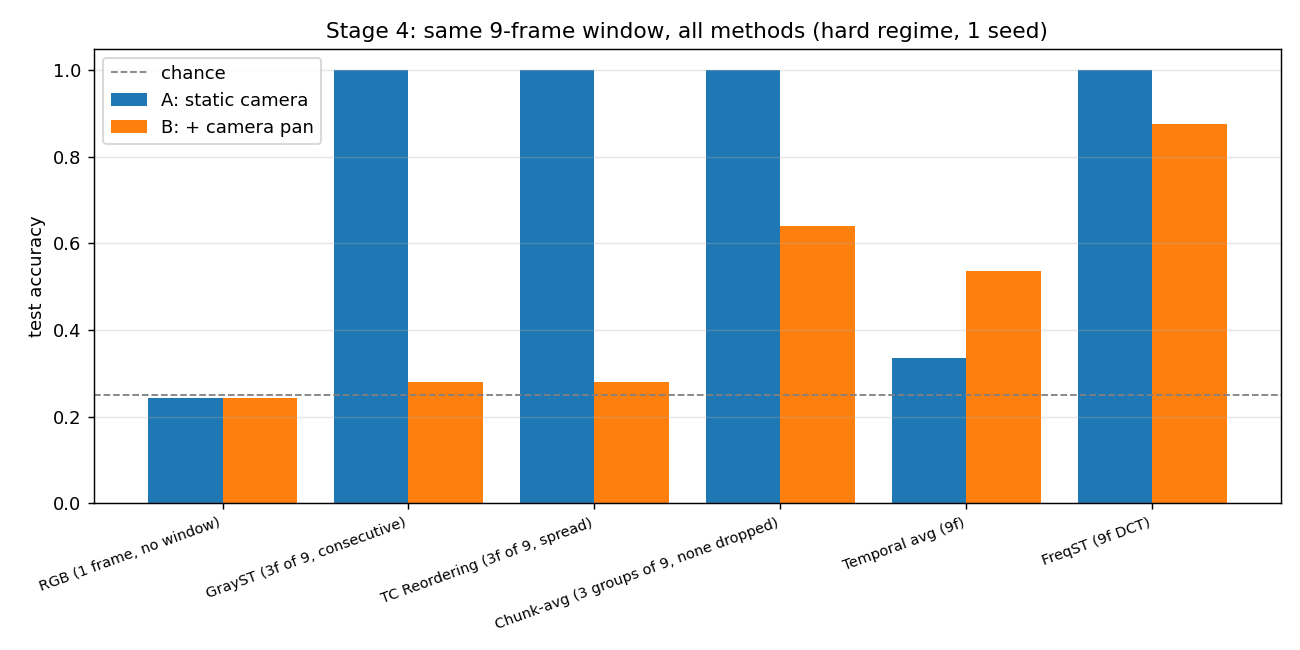
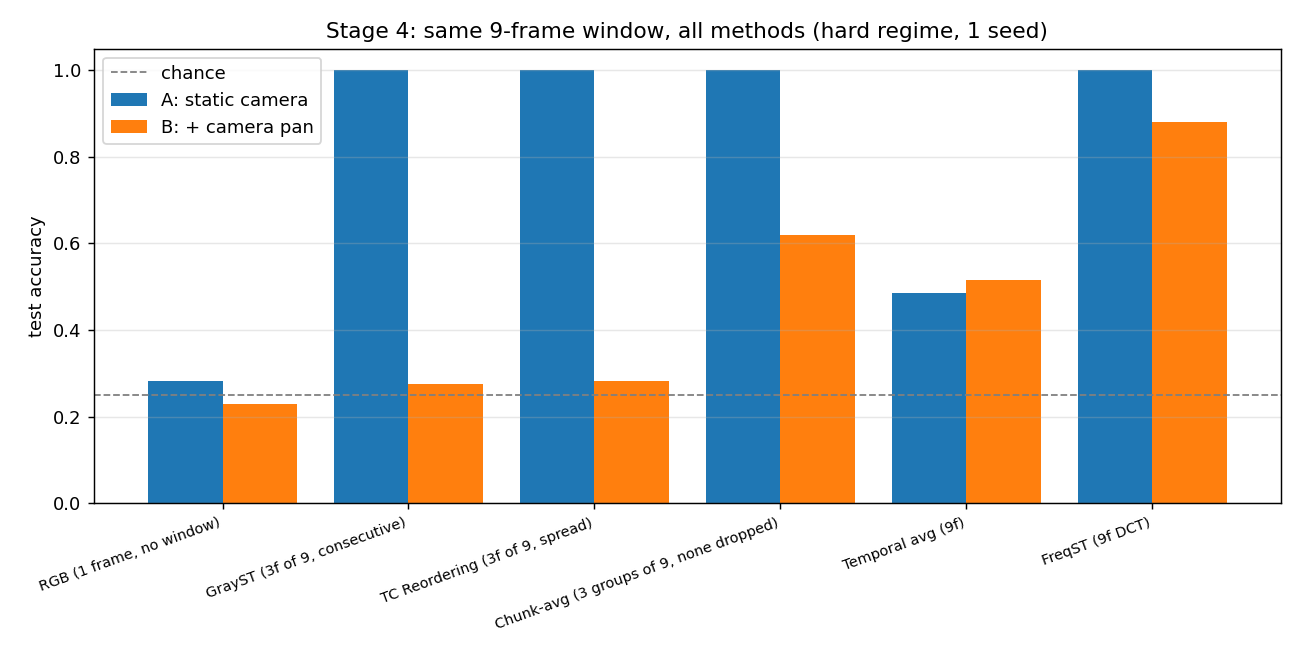
Rerun stage4_window9, document results in REPORT.md
Adds a Stage 4 section covering the same-window fairness check: GrayST/TC
ignore extra frames even when given them, chunk-avg confirms "use the whole
window" helps but the DCT still adds a large margin on top (0.88 vs 0.62).
Notes a reproducibility caveat -- some baseline numbers shifted vs the
originally committed run (likely env/library differences on this machine).

diff --git a/results/REPORT.md b/results/REPORT.md
@@ -351,6 +351,51 @@ split. Everything here is a green light for that test, not a substitute for it.
 
 ---
 
+## Stage 4 -- same-window fairness check
+
+Goal: close off the fairness caveat flagged above. Stage 3 gives every method the
+same WINDOW=8 span, but GrayST and TC Reordering only ever read 3 of those 8 raw
+frames (see `transforms.py`) -- so "same window" and "same amount of frame content
+consumed" are not the same thing. This script hands every method the literal same
+T=9 window and asks what each one does with it. Adds one new control, `chunk_avg`:
+split the 9 frames into 3 contiguous groups, average each group into one channel --
+every frame contributes, nothing discarded, but still no frequency decomposition
+(isolates "uses the whole window" from "uses a DCT"). Same underlying clips as
+Stage 3's hard regime (identical `build_dataset` seeds), just re-sliced to 9 frames,
+single seed. Not part of `run_all.sh` -- run manually via
+`python -m experiments.stage4_window9`. Full writeup: `docs/stage4_window9.md`.
+
+**Result** (`results/stage4_window9/metrics.txt`, `window9_comparison.png`):
+
+| method | frames used | A: static | B: + pan | drop A->B |
+|---|---|---|---|---|
+| RGB (1 frame, window ignored) | 1 of 9 | 0.282 | 0.230 | 0.052 |
+| GrayST (3f of 9, consecutive) | 3 of 9 (6 discarded) | 1.000 | 0.275 | 0.725 |
+| TC Reordering (3f of 9, spread) | 3 of 9 (6 discarded) | 1.000 | 0.282 | 0.718 |
+| Chunk-avg (3 groups of 9, none dropped) | 9 of 9 | 1.000 | 0.620 | 0.380 |
+| Temporal avg (9f) | 9 of 9 | 0.485 | 0.515 | -0.030 |
+| **FreqST (9f DCT)** | 9 of 9 | 1.000 | **0.880** | 0.120 |
+
+**Verdict: the fairness objection doesn't hold up.** GrayST and TC Reordering are
+completely unaffected by having 6 extra frames sitting right there in the window --
+they still only look at 3, because that's how those methods are defined, not because
+they were starved of data in Stage 3. Chunk-avg (uses everything, no DCT) climbs to
+0.620 on pan -- better than raw stacking, confirming "use the whole window" helps on
+its own -- but still well short of FreqST's 0.880. The DCT is doing real work beyond
+just aggregating more frames.
+
+Note on reproducibility: re-running this on a different machine (Windows/CPU, this
+session) than the original results shifted a couple of numbers noticeably --
+RGB (0.242->0.282 static, no real signal either way, both ~chance) and Temporal avg
+(0.335->0.485 static) moved by more than seed noise alone would suggest, likely
+library/BLAS-version differences affecting the untrained/lightly-trained baselines
+most. The methods that matter for the headline claim (GrayST/TC collapsing, FreqST
+holding at ~0.88) reproduced closely. Worth pinning package versions
+(`requirements.txt` currently has no version pins) if exact reproducibility across
+machines becomes important later.
+
+---
+
 ### Summary across stages
 - **Stage 1:** FreqST's DCT transform behaves exactly as designed (DC=appearance,
   AC=motion), monotonically in a speed range matched to the window length;
@@ -362,6 +407,10 @@ split. Everything here is a green light for that test, not a substitute for it.
   GrayST on a static-camera classification task and *much* more robust to a
   camera-pan nuisance (0.90 vs ~0.31), thanks to temporal integration plus
   frequency structure. Verified across seeds with a temporal-average control.
+- **Stage 4:** Ruled out the fairness objection that FreqST wins only because it
+  sees more raw frames -- GrayST/TC ignore extra frames even when handed the
+  identical window, and a fairer "use everything, no DCT" control (chunk-avg,
+  0.62) still trails FreqST (0.88) by a wide margin.
 - **Overall:** the idea is worth a real-data test. It is not proven on real
   video, and its advantage is clearest specifically under camera motion --
   the exact case that motivated it.
